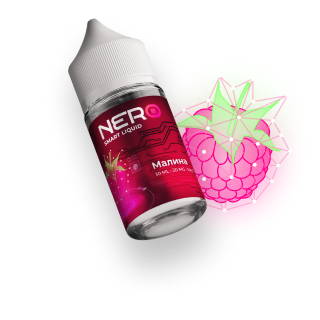
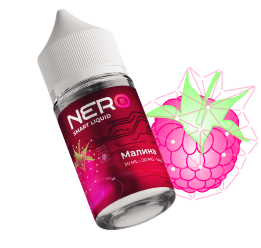
Стилизует hero-блок

diff --git a/source/sass/blocks/hero-block.scss b/source/sass/blocks/hero-block.scss
@@ -1,0 +1,81 @@
+@use "../variables.scss";
+
+.hero-block {
+  padding-top: 90px;
+  padding-bottom: 64px;
+  background: url("../../img/age-verification/background.jpg") -331px 3px no-repeat, radial-gradient(100% 100% at 50% 0%, rgba(0, 0, 0, 0.00) 0%, #010101 100%) center center no-repeat;
+  background-size: 363%;
+
+  @media (min-width: variables.$tablet-width) {
+    padding-top: 162px;
+    padding-bottom: 121px;
+    background: url("../../img/age-verification/background.jpg") -196px 3px no-repeat, radial-gradient(100% 100% at 50% 0%, rgba(0, 0, 0, 0.00) 0%, #010101 100%) center center no-repeat;
+    background-size: cover;
+  }
+
+  @media (min-width: variables.$desktop-width) {
+    background: url("../../img/age-verification/background.jpg") 500px -33px no-repeat, radial-gradient(100% 100% at 50% 0%, rgba(0, 0, 0, 0.00) 0%, #010101 100%) center center no-repeat;
+    background-size: contain;
+  }
+}
+
+.hero-block__container {
+  @media (min-width: variables.$tablet-width) {
+    width: 492px;
+  }
+
+  @media (min-width: variables.$tablet-width) {
+    width: 596px;
+  }
+}
+
+.hero-block__title {
+  margin-bottom: 20px;
+
+  @media (min-width: variables.$tablet-width) {
+    margin-bottom: 40px;
+  }
+}
+
+.hero-block__image {
+  margin: 0 auto;
+  margin-bottom: 20px;
+
+  @media (min-width: variables.$tablet-width) {
+    position: absolute;
+    top: 0;
+    right: 30px;
+    width: 435px;
+    height: 413px;
+    margin-bottom: 0;
+  }
+
+  @media (min-width: variables.$desktop-width) {
+    right: 110px;
+    width: 462px;
+    height: 482px;
+  }
+}
+
+.hero-block__description {
+  font-size: 16px;
+  line-height: 125%;
+  text-align: center;
+  text-transform: uppercase;
+  letter-spacing: -0.32px;
+  margin: 0;
+  margin-bottom: 40px;
+
+  @media (min-width: variables.$tablet-width) {
+    font-size: 20px;
+    line-height: 24px;
+    text-align: left;
+    margin-bottom: 80px;
+  }
+}
+
+.hero-block__description span{
+  background: linear-gradient(270deg, #FF512F 50%, #DD2476 115.86%);
+  -webkit-background-clip: text;
+  -webkit-text-fill-color: transparent;
+}

diff --git a/source/main-page.html b/source/main-page.html
@@ -88,11 +88,13 @@
           <div class="hero-block__container">
             <p class="hero-block__title title">Новая формула <span>жидкости</span> от нейросети</p>
             <picture>
-              <img class="hero-block__image" src="img/main-page/raspberry-flavor.png" width="261" height="248" alt="NERO Smart Liquid вкус малины.">
+              <source media="(min-width: 1440px)" srcset="img/main-page/raspberry-flavor-desktop.png, img/main-page/raspberry-flavor-desktop@2x.png 2x">
+              <source media="(min-width: 768px)" srcset="img/main-page/raspberry-flavor-tablet.png, img/main-page/raspberry-flavor-tablet@2x.png 2x">
+              <img class="hero-block__image" src="img/main-page/raspberry-flavor.png" srcset="img/main-page/raspberry-flavor@2x.png 2x" width="261" height="248" alt="NERO Smart Liquid вкус малины.">
             </picture>
             <p class="hero-block__description"><span>Получи полный спектр эмоций</span> от продукта, в создании которого принимает участие нейросеть</p>
+            <a class="hero-block__button button" href="#">Получить прайс</a>
           </div>
-          <a class="hero-block__button button" href="#">Получить прайс</a>
         </div>
       </section>
       <section class="product">

diff --git a/source/sass/base/title.scss b/source/sass/base/title.scss
@@ -1,5 +1,30 @@
 @use "../variables.scss";
 
 .title {
+  font-size: 24px;
+  line-height: 32px;
+  text-align: center;
+  letter-spacing: -0.48px;
+  text-transform: uppercase;
   margin: 0;
+
+  @media (min-width: variables.$tablet-width) {
+    font-size: 48px;
+    line-height: 58px;
+    letter-spacing: -0.96px;
+    text-align: left;
+  }
+
+  @media (min-width: variables.$desktop-width) {
+    font-size: 56px;
+    line-height: 67px;
+    font-weight: 600;
+    letter-spacing: -1.12px;
+  }
+}
+
+.title span {
+  background: linear-gradient(180deg, #FF512F 0%, #DD2476 100%);
+  -webkit-background-clip: text;
+  -webkit-text-fill-color: transparent;
 }

diff --git a/source/sass/base/button.scss b/source/sass/base/button.scss
@@ -27,6 +27,8 @@
 
     @media(min-width: variables.$tablet-width) {
       min-width: 198px;
+      font-size: 20px;
+      line-height: 24px;
       padding: 30px 20px;
     }
   }
@@ -40,12 +42,15 @@
 
     @media(min-width: variables.$tablet-width) {
       min-width: 198px;
+      font-size: 20px;
+      line-height: 24px;
       padding: 30px 20px;
     }
   }
 
   @media(min-width: variables.$tablet-width) {
-    font-size: 20px;
+    font-size: 16px;
     line-height: 24px;
+    padding: 30px 20px;
   }
 }

diff --git a/source/sass/blocks/main-header.scss b/source/sass/blocks/main-header.scss
@@ -1,14 +1,16 @@
 @use "../variables.scss";
 
 .main-header {
+  position: fixed;
+  top: 0;
+  left: 50%;
   min-height: 50px;
+  transform: translateX(-50%);
+  background: rgba(0, 0, 0, 0.4);
+  z-index: 1;
 
   @media (min-width: variables.$tablet-width) {
-    position: fixed;
-    top: 0;
-    left: 50%;
     min-height: 100px;
-    transform: translateX(-50%);
   }
 }
 

diff --git a/source/sass/base/page.scss b/source/sass/base/page.scss
@@ -1,9 +1,5 @@
 @use "../variables.scss";
 
-.page {
-  //height: 100%;
-}
-
 .page__body {
   display: flex;
   flex-direction: column;
@@ -23,6 +19,7 @@
 }
 
 .page__content-container {
+  position: relative;
   width: 320px;
   padding: 0 20px;
   margin: 0 auto;

diff --git a/source/sass/style.scss b/source/sass/style.scss
@@ -20,3 +20,4 @@
 @use "./blocks/social-list.scss";
 @use "./blocks/developer-info.scss";
 @use "./blocks/main-navigation.scss";
+@use "./blocks/hero-block.scss";

diff --git a/source/sass/base/base.scss b/source/sass/base/base.scss
@@ -13,6 +13,7 @@
 
 img {
   display: block;
+  max-width: 100%;
   height: auto;
 }
 
